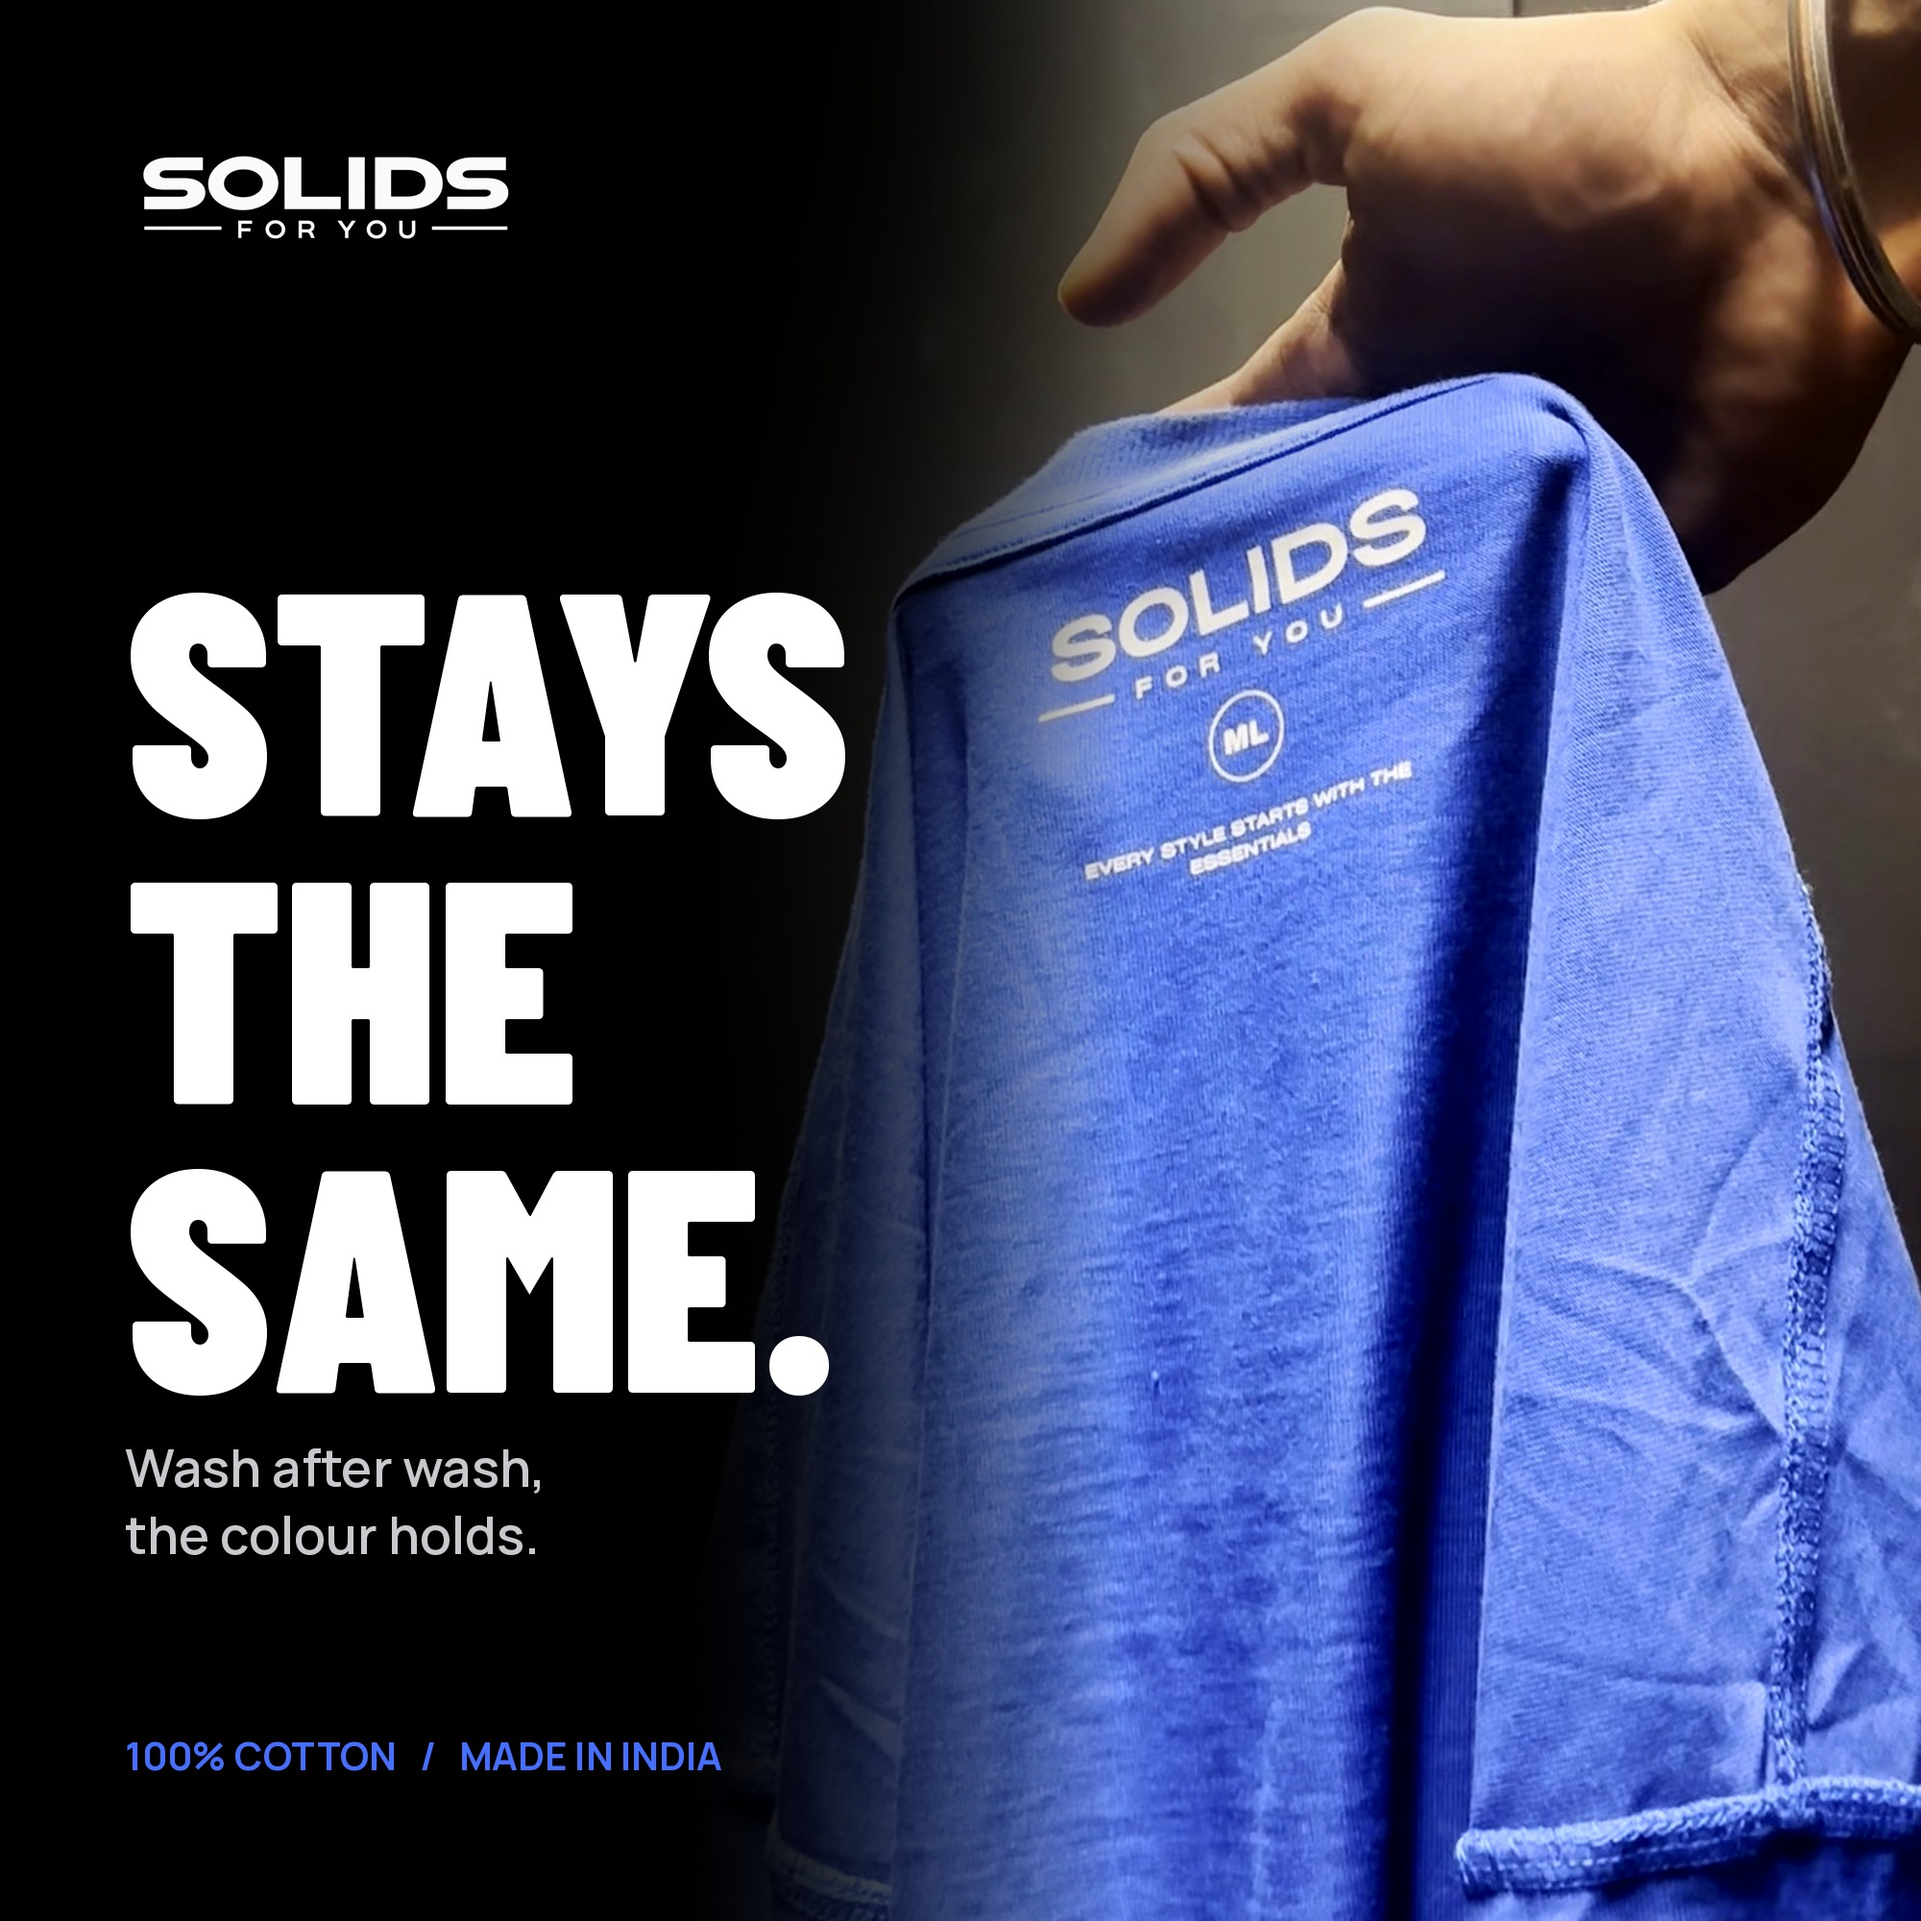
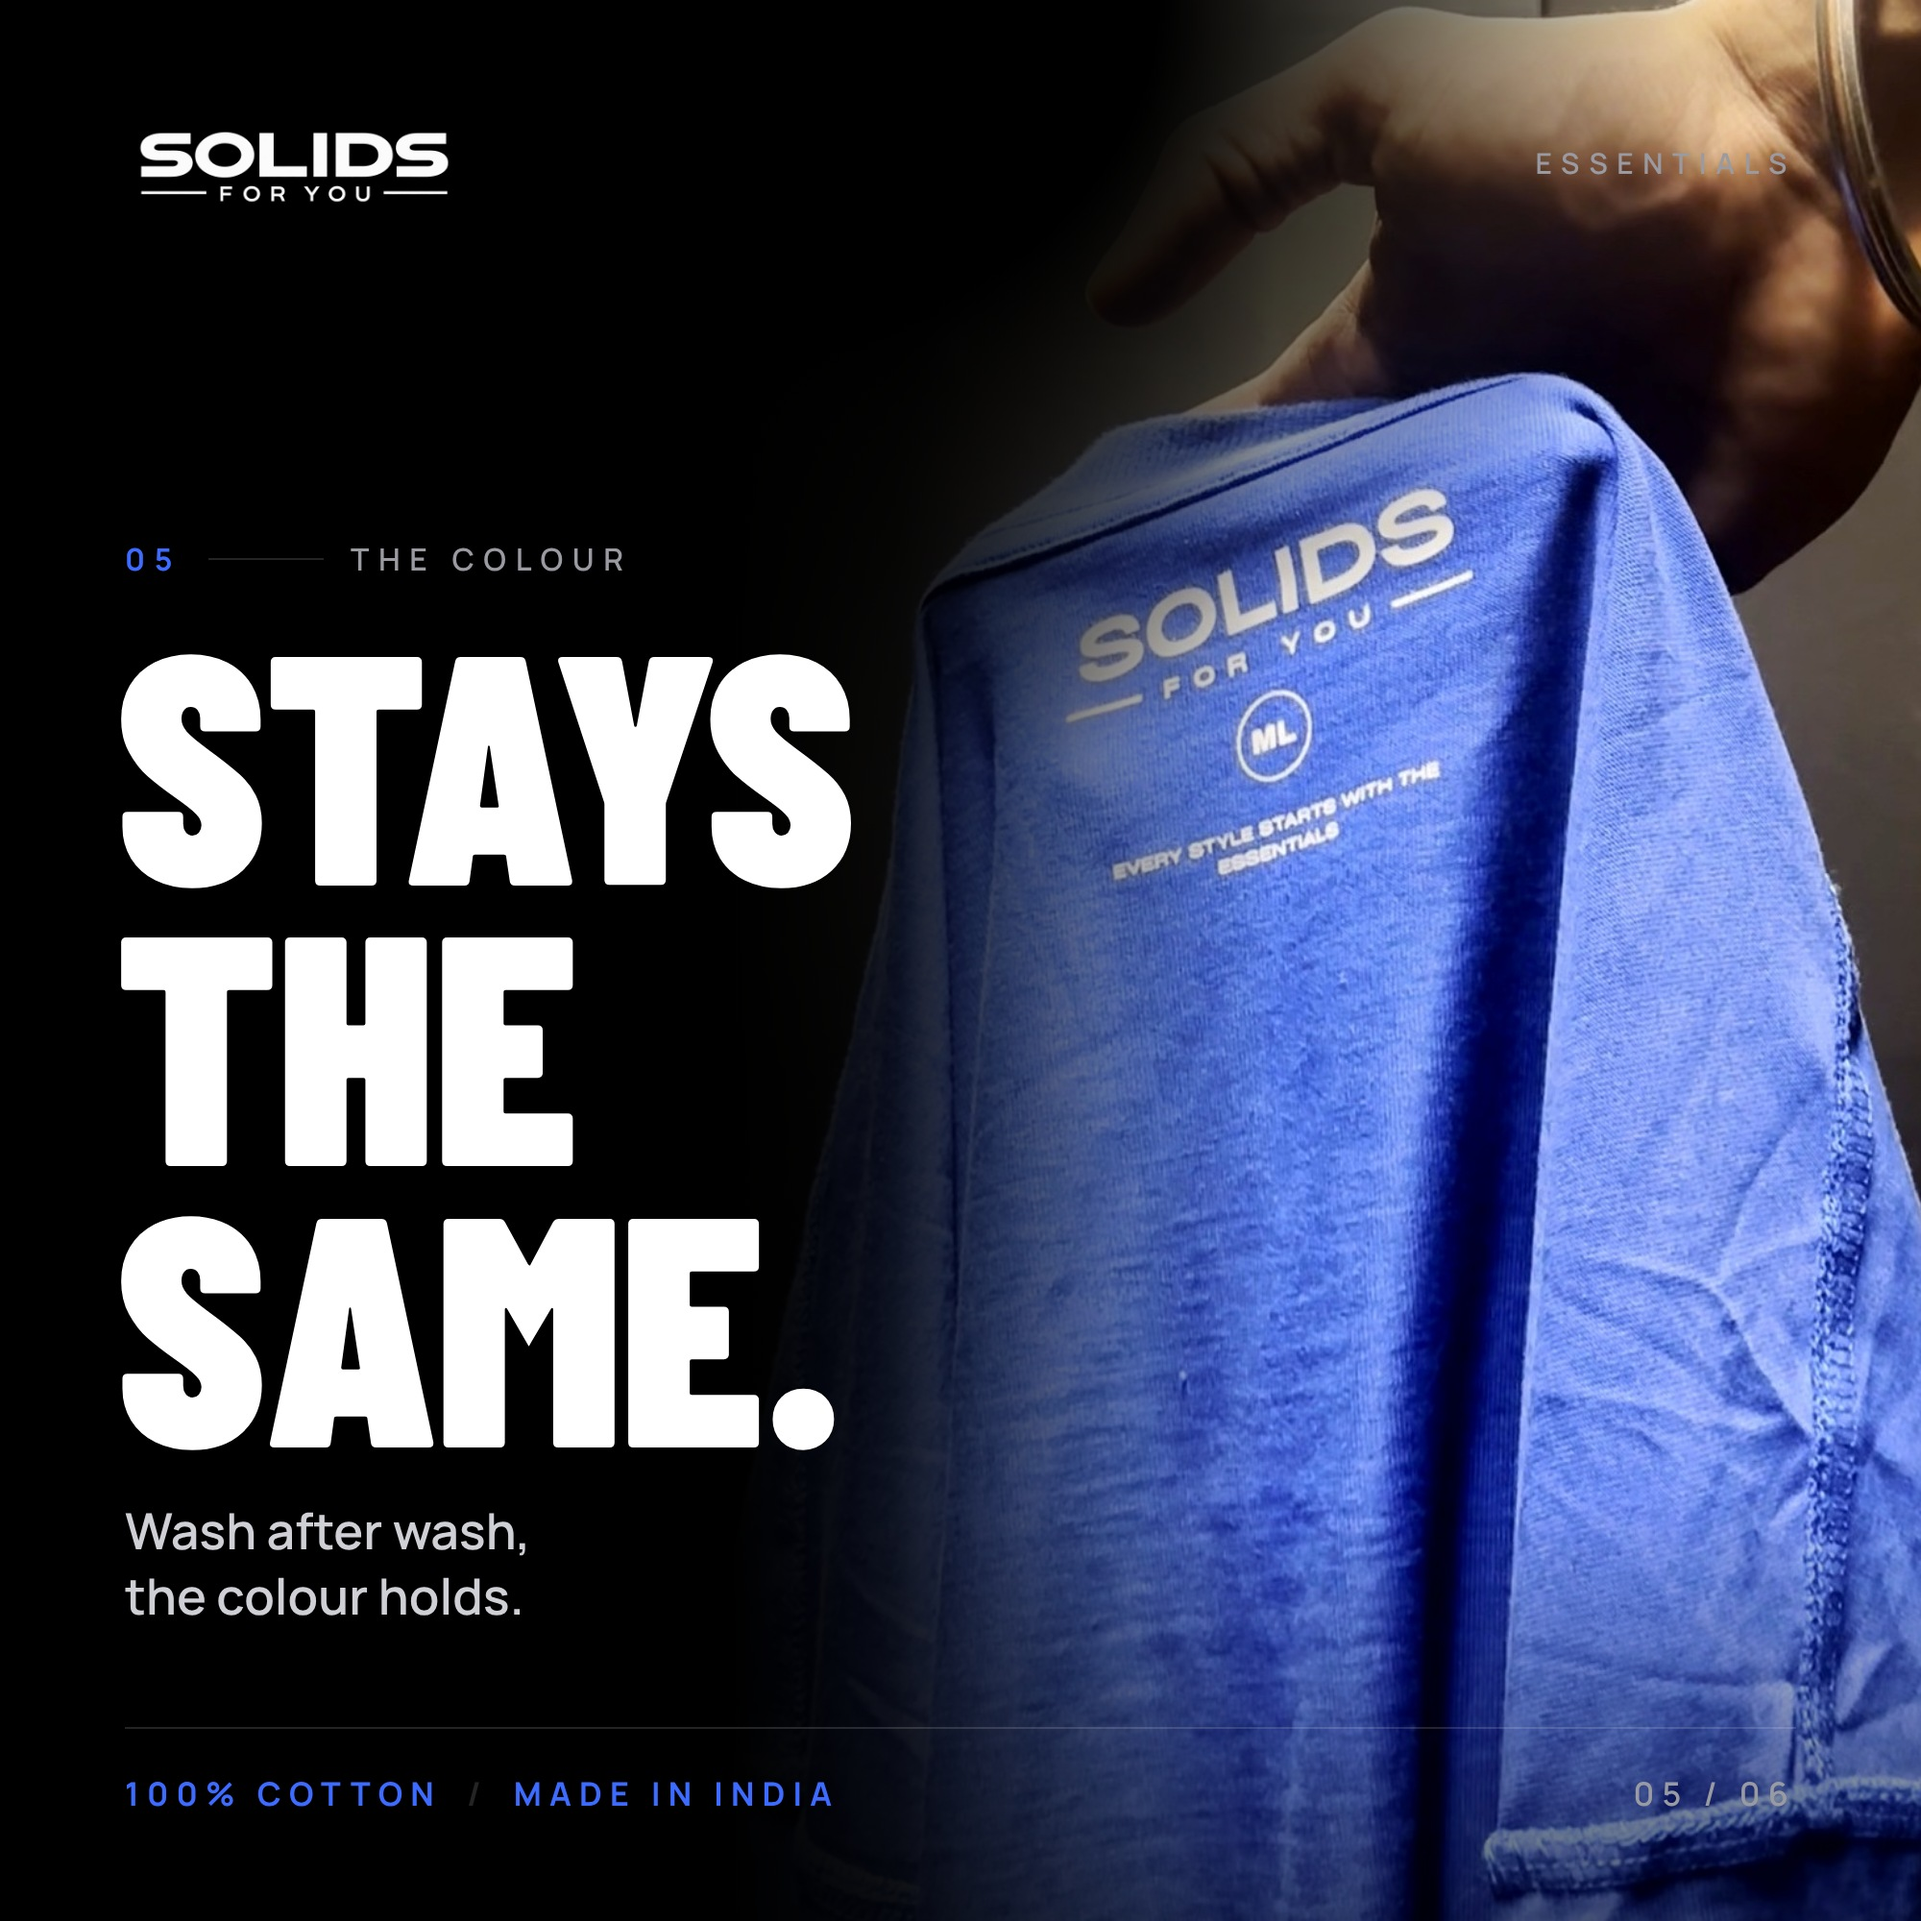
Website-style 1x1 infographic and usage rules
Claude-Session: https://claude.ai/code/session_01SfDb7K73VVeqjNWLr3iUv4

diff --git a/amazon/brand-story-images/src/stays-the-same.html b/amazon/brand-story-images/src/stays-the-same.html
@@ -1,0 +1,38 @@
+<!doctype html>
+<html><head><meta charset="utf-8">
+<style>
+@font-face{font-family:Barlow;src:url(../../../brand/fonts/BarlowCondensed-900.ttf);font-weight:900}
+@font-face{font-family:Manrope;src:url(../../../brand/fonts/Manrope-600.ttf);font-weight:600}
+@font-face{font-family:Manrope;src:url(../../../brand/fonts/Manrope-700.ttf);font-weight:700}
+:root{--ink:#fff;--mute:#9a9aa3;--line:rgba(255,255,255,.14);--blue:#3d6bff}
+*{margin:0;padding:0;box-sizing:border-box}
+html,body{width:2000px;height:2000px;background:#000;overflow:hidden}
+.frame{position:relative;width:2000px;height:2000px;background:#000;color:var(--ink);font-family:Manrope;font-weight:600}
+.photo{position:absolute;top:0;right:0;width:1240px;height:2000px;background:url(tee-label.jpg) center/cover no-repeat}
+.photo::after{content:"";position:absolute;inset:0;
+  background:linear-gradient(90deg,#000 0%,rgba(0,0,0,.85) 14%,rgba(0,0,0,0) 46%),
+             radial-gradient(120% 60% at 0% 0%,#000 30%,rgba(0,0,0,0) 70%),
+             linear-gradient(0deg,rgba(0,0,0,.55) 0%,rgba(0,0,0,0) 22%),
+             linear-gradient(180deg,rgba(0,0,0,.7) 0%,rgba(0,0,0,0) 16%)}
+.nav{position:absolute;top:110px;left:130px;right:130px;display:flex;align-items:center;justify-content:space-between}
+.nav img{height:118px}
+.nav .tag{font-size:30px;letter-spacing:.32em;color:var(--mute);text-transform:uppercase}
+.eyebrow{position:absolute;top:560px;left:130px;display:flex;align-items:center;gap:28px;font-size:32px;letter-spacing:.3em;color:var(--mute);text-transform:uppercase}
+.eyebrow b{color:var(--blue);font-weight:700}
+.eyebrow i{display:block;width:120px;height:2px;background:var(--line)}
+h1{position:absolute;top:640px;left:120px;font-family:Barlow;font-weight:900;font-size:340px;line-height:.86;letter-spacing:-.005em;text-transform:uppercase}
+.lede{position:absolute;top:1560px;left:130px;width:640px;font-size:52px;line-height:1.3;color:#cfcfd6}
+.foot{position:absolute;left:130px;right:130px;bottom:110px;display:flex;justify-content:space-between;align-items:center;
+  padding-top:44px;border-top:2px solid var(--line);font-size:34px;font-weight:700;letter-spacing:.24em;text-transform:uppercase}
+.foot .usp{color:var(--blue)}
+.foot .usp span{color:var(--line);margin:0 26px}
+.foot .idx{color:var(--mute);font-weight:600}
+</style></head>
+<body><div class="frame">
+  <div class="photo"></div>
+  <div class="nav"><img src="logo.png" alt="SOLIDS FOR YOU"><div class="tag">Essentials</div></div>
+  <div class="eyebrow"><b>05</b><i></i>The colour</div>
+  <h1>Stays<br>the<br>same.</h1>
+  <p class="lede">Wash after wash,<br>the colour holds.</p>
+  <div class="foot"><div class="usp">100% Cotton<span>/</span>Made in India</div><div class="idx">05 / 06</div></div>
+</div></body></html>
